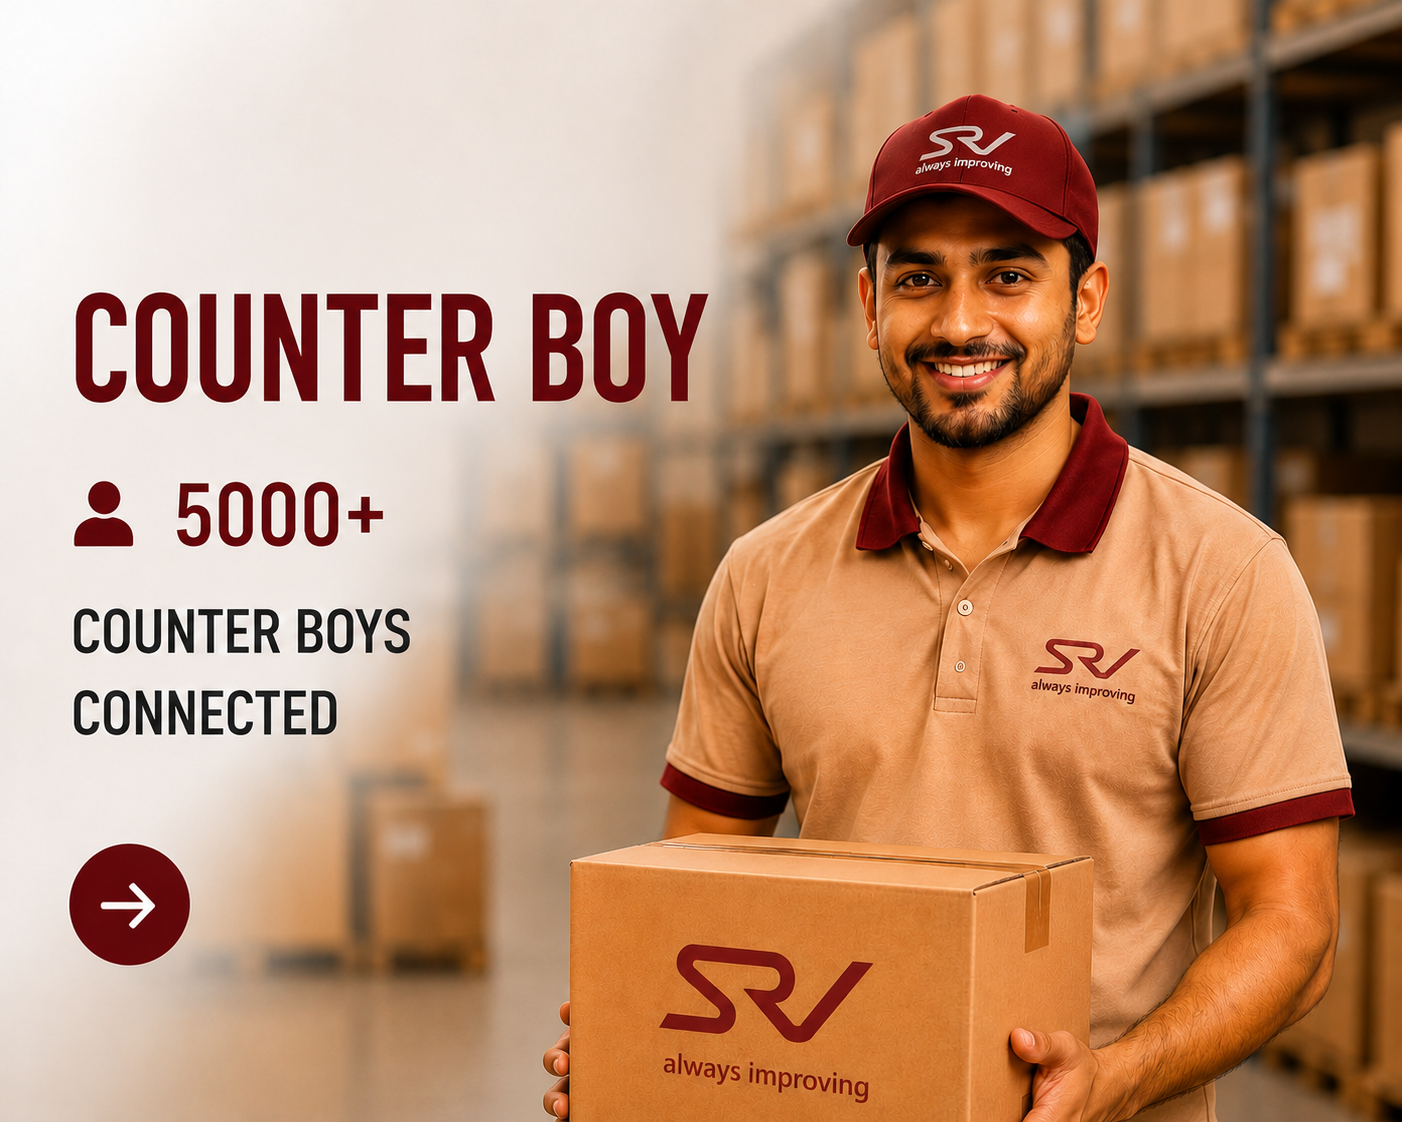
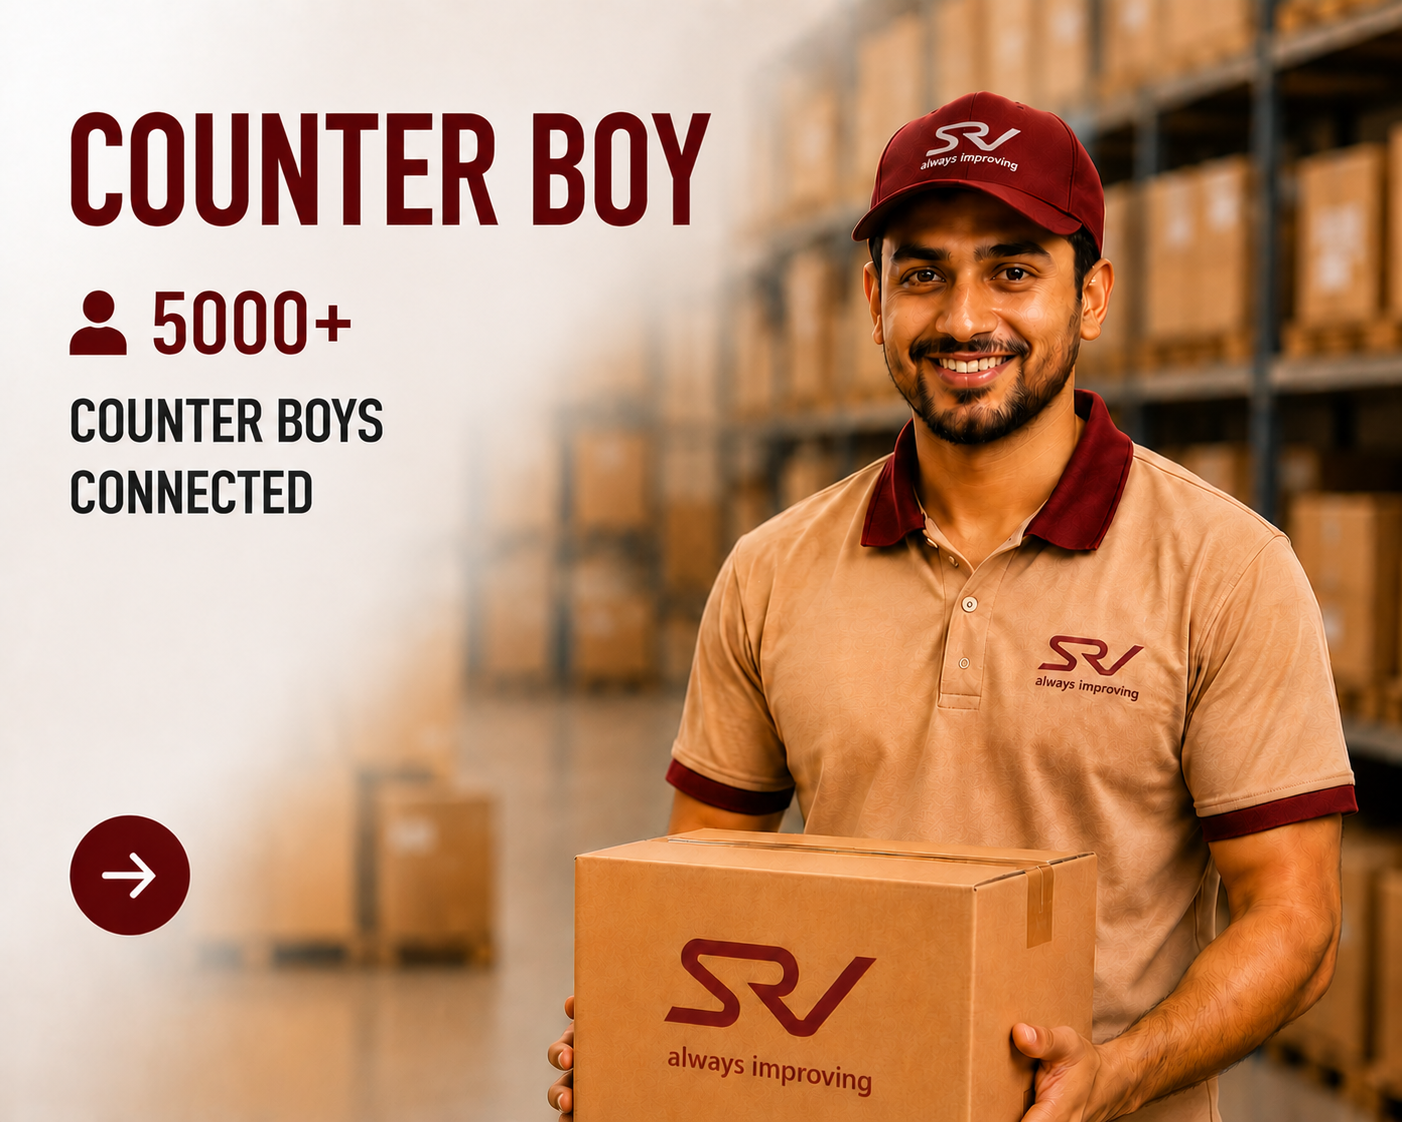
product redirect fix

diff --git a/src/features/counterboy/screens/HomeScreen.tsx b/src/features/counterboy/screens/HomeScreen.tsx
@@ -49,39 +49,65 @@ function resolveRemoteImageUrl(value?: string | null): string | null {
 }
 
 const CB_HOME_CAT_IMAGES: Record<string, string> = {
-  fanbox: 'https://srvelectricals.com/cdn/shop/files/FC_4_17-30.png?v=1757426626&width=320',
+  fanbox:       'https://srvelectricals.com/cdn/shop/files/FC_4_17-30.png?v=1757426626&width=320',
   concealedbox: 'https://srvelectricals.com/cdn/shop/files/CRD_PL_3.png?v=1757426566&width=320',
-  modular: 'https://srvelectricals.com/cdn/shop/files/3x3_679e5d30-ecf2-446e-9452-354bbf4c4a26.png?v=1757426377&width=320',
-  mcb: 'https://srvelectricals.com/cdn/shop/files/MCB_Box_4_Way_GI.png?v=1757426418&width=320',
+  busbar:       'https://srvelectricals.com/cdn/shop/files/Bus_Bar_100A_Super.png?v=1757426672&width=320',
+  mcb:          'https://srvelectricals.com/cdn/shop/files/MCB_Box_4_Way_GI.png?v=1757426418&width=320',
 };
 
 const CB_HOME_LABELS: Record<string, string> = {
-  fanbox: 'Fan Box',
-  concealedbox: 'Concealed Box',
-  modular: 'Modular Box',
-  modularbox: 'Modular Box',
-  mcb: 'MCB Box',
+  'fan': 'Fan Box',
+  'fanbox': 'Fan Box',
+  'fan-box': 'Fan Box',
+  'concealed': 'Concealed Box',
+  'concealedbox': 'Concealed Box',
+  'concealed-box': 'Concealed Box',
+  'bus': 'Bus Bar Super',
+  'bar': 'Bus Bar Super',
+  'busbar': 'Bus Bar Super',
+  'super': 'Bus Bar Super',
+  'mcb': 'MCB Box',
+  'eco': 'MCB Box',
+  'spn': 'MCB Box',
+  'dd': 'MCB Box',
 };
 
-const CB_HOME_ALIASES: Record<string, string> = {
-  modularbox: 'modular',
-  boxes: 'mcb',
-};
-
-const CB_HOME_CATEGORY_ORDER = ['fanbox', 'concealedbox', 'modular', 'mcb'] as const;
+const CB_HOME_CATEGORY_ORDER = ['Fan Box', 'Concealed Box', 'BUS BAR SUPER', 'ECO SPN DD MCB BOX'] as const;
 
 function sanitizeCbCategoryKey(value: string) {
-  return value.toLowerCase().trim().replace(/[^a-z0-9]+/g, '');
+  return value.toLowerCase().trim();
 }
 
 function normalizeCbHomeCategory(id: string) {
   const sanitized = sanitizeCbCategoryKey(id);
-  return CB_HOME_ALIASES[sanitized] ?? sanitized;
+  // Check if it matches any of our target categories
+  for (const targetCat of CB_HOME_CATEGORY_ORDER) {
+    if (sanitized.includes(targetCat.toLowerCase()) || targetCat.toLowerCase().includes(sanitized)) {
+      return targetCat;
+    }
+  }
+  // Check if any search term matches
+  const searchTerms = ['fan', 'concealed', 'bus', 'bar', 'busbar', 'super', 'mcb', 'eco', 'spn', 'dd'];
+  for (const term of searchTerms) {
+    if (sanitized.includes(term)) {
+      return CB_HOME_LABELS[term] || sanitized;
+    }
+  }
+  return sanitized;
 }
 
 function getCbHomeCatImage(id: string, apiImageUrl?: string | null) {
+  const remoteUrl = resolveRemoteImageUrl(apiImageUrl);
+  if (remoteUrl) return remoteUrl;
+
+  const idLower = id.toLowerCase();
+  if (idLower.includes('bus') || idLower.includes('bar')) return CB_HOME_CAT_IMAGES.busbar;
+  if (idLower.includes('mcb') || idLower.includes('eco') || idLower.includes('spn')) return CB_HOME_CAT_IMAGES.mcb;
+  if (idLower.includes('concealed')) return CB_HOME_CAT_IMAGES.concealedbox;
+  if (idLower.includes('fan')) return CB_HOME_CAT_IMAGES.fanbox;
+
   const normalizedId = normalizeCbHomeCategory(id);
-  return resolveRemoteImageUrl(apiImageUrl) ?? CB_HOME_CAT_IMAGES[normalizedId] ?? CB_HOME_CAT_IMAGES.fanbox;
+  return CB_HOME_CAT_IMAGES[normalizedId] ?? CB_HOME_CAT_IMAGES.fanbox;
 }
 
 const CB_PRIMARY = cb.primary;
@@ -520,9 +546,9 @@ const styles = StyleSheet.create({
     height: 132,
     alignItems: 'center',
     justifyContent: 'center',
-    backgroundColor: cb.bg,
+    backgroundColor: '#FFFFFF',
   },
-  cbCatImgZoneDark: { backgroundColor: '#2D1C14' },
+  cbCatImgZoneDark: { backgroundColor: cb.darkSurface },
   cbCatImage: { width: '88%', height: '88%' },
   cbCatAccent: { height: 3, width: '100%' },
   cbCatInfo: { padding: 10, backgroundColor: '#FFFFFF' },

diff --git a/src/features/electrician/screens/HomeScreen.tsx b/src/features/electrician/screens/HomeScreen.tsx
@@ -250,7 +250,33 @@ function normalizeHomeCategory(id: string): string {
 
 function getCatImage(id: string, apiImageUrl?: string | null): string {
   const normalizedId = normalizeHomeCategory(id);
-  return CAT_IMAGES[normalizedId] || CAT_IMAGES[id] || apiImageUrl || CAT_IMAGES.fanbox;
+  
+  // First try to get from CAT_IMAGES with normalized ID
+  if (CAT_IMAGES[normalizedId]) return CAT_IMAGES[normalizedId];
+  
+  // Try with original ID
+  if (CAT_IMAGES[id]) return CAT_IMAGES[id];
+  
+  // Try API image URL
+  if (apiImageUrl) return apiImageUrl;
+  
+  // Try to match by keywords for specific categories
+  const idLower = id.toLowerCase();
+  if (idLower.includes('mcb') || idLower.includes('eco') || idLower.includes('spn')) {
+    return CAT_IMAGES.mcb;
+  }
+  if (idLower.includes('bus') || idLower.includes('bar')) {
+    return CAT_IMAGES.busbar;
+  }
+  if (idLower.includes('fan') && !idLower.includes('exhaust')) {
+    return CAT_IMAGES.fanbox;
+  }
+  if (idLower.includes('concealed')) {
+    return CAT_IMAGES.concealedbox;
+  }
+  
+  // Default fallback
+  return CAT_IMAGES.fanbox;
 }
 
 function resolveRemoteImageUrl(value?: string | null): string | null {
@@ -861,21 +887,26 @@ export function HomeScreen({
     return catalogProducts;
   }, [catalogProducts, selectedFilter]);
 
-  // Show only 4 different priority categories on home screen
+  // Show only 4 specific hardcoded categories on home screen
   const displayedCategories = useMemo(() => {
-    const preferredOrder = ['fanbox', 'concealedbox', 'modular', 'mcb', 'busbar', 'exhaust', 'led', 'changeover'];
-    const ordered = [
-      ...preferredOrder
-        .map((id) => categories.find((category) => category.id === id))
-        .filter(Boolean),
-      ...categories,
-    ] as typeof categories;
-    const seen = new Set<string>();
-    return ordered.filter((category) => {
-      if (seen.has(category.id)) return false;
-      seen.add(category.id);
-      return true;
-    }).slice(0, 4);
+    const hardcodedCategories = [
+      { id: 'Fan Box', label: 'Fan Box', searchTerms: ['fan', 'fanbox', 'fan-box'] },
+      { id: 'Concealed Box', label: 'Concealed Box', searchTerms: ['concealed', 'concealedbox', 'concealed-box'] },
+      { id: 'BUS BAR SUPER', label: 'Bus Bar Super', searchTerms: ['bus', 'bar', 'busbar', 'super'] },
+      { id: 'ECO SPN DD MCB BOX', label: 'MCB Box', searchTerms: ['mcb', 'eco', 'spn', 'dd'] },
+    ];
+    
+    // Try to match with actual categories from database
+    return hardcodedCategories.map(hardcoded => {
+      const found = categories.find((category) => {
+        const cId = category.id.toLowerCase();
+        const cLabel = (category.label || '').toLowerCase();
+        return hardcoded.searchTerms.some(term => 
+          cId.includes(term.toLowerCase()) || cLabel.includes(term.toLowerCase())
+        );
+      });
+      return found ? { ...found, label: hardcoded.label } : { id: hardcoded.id, label: hardcoded.label, count: 0 };
+    });
   }, [categories]);
 
   // 2-column card width (same as ProductScreen)

diff --git a/src/features/dealer/screens/HomeScreen.tsx b/src/features/dealer/screens/HomeScreen.tsx
@@ -90,8 +90,17 @@ function normalizeHomeCategory(id: string) {
 }
 
 function getCatImage(id: string, apiImageUrl?: string | null) {
+  const remoteUrl = resolveRemoteImageUrl(apiImageUrl);
+  if (remoteUrl) return remoteUrl;
+
+  const idLower = id.toLowerCase();
+  if (idLower.includes('bus') || idLower.includes('bar')) return CAT_IMAGES.busbar;
+  if (idLower.includes('mcb') || idLower.includes('eco') || idLower.includes('spn')) return CAT_IMAGES.mcb;
+  if (idLower.includes('concealed')) return CAT_IMAGES.concealedbox;
+  if (idLower.includes('fan') && !idLower.includes('exhaust')) return CAT_IMAGES.fanbox;
+
   const normalizedId = normalizeHomeCategory(id);
-  return resolveRemoteImageUrl(apiImageUrl) ?? CAT_IMAGES[normalizedId] ?? CAT_IMAGES[id] ?? CAT_IMAGES.fanbox;
+  return CAT_IMAGES[normalizedId] ?? CAT_IMAGES[id] ?? CAT_IMAGES.fanbox;
 }
 
 function resolveRemoteImageUrl(uri?: string | null) {
@@ -692,17 +701,24 @@ export function HomeScreen({
     });
   }, [ctxCategories, ctxProducts]);
   const displayedCategories = useMemo(() => {
-    const preferredOrder = ['fanbox', 'concealedbox', 'modular', 'mcb', 'busbar', 'exhaust', 'led', 'changeover'];
-    const ordered = [
-      ...preferredOrder.map((id) => categories.find((category) => category.id === id)).filter(Boolean),
-      ...categories,
-    ] as typeof categories;
-    const seen = new Set<string>();
-    return ordered.filter((category) => {
-      if (seen.has(category.id)) return false;
-      seen.add(category.id);
-      return true;
-    }).slice(0, 4);
+    const hardcodedCategories = [
+      { id: 'Fan Box', label: 'Fan Box', searchTerms: ['fan', 'fanbox', 'fan-box'] },
+      { id: 'Concealed Box', label: 'Concealed Box', searchTerms: ['concealed', 'concealedbox', 'concealed-box'] },
+      { id: 'BUS BAR SUPER', label: 'Bus Bar Super', searchTerms: ['bus', 'bar', 'busbar', 'super'] },
+      { id: 'ECO SPN DD MCB BOX', label: 'MCB Box', searchTerms: ['mcb', 'eco', 'spn', 'dd'] },
+    ];
+    
+    // Try to match with actual categories from database
+    return hardcodedCategories.map(hardcoded => {
+      const found = categories.find((category) => {
+        const cId = category.id.toLowerCase();
+        const cLabel = (category.label || '').toLowerCase();
+        return hardcoded.searchTerms.some(term => 
+          cId.includes(term.toLowerCase()) || cLabel.includes(term.toLowerCase())
+        );
+      });
+      return found ? { ...found, label: hardcoded.label } : { id: hardcoded.id, label: hardcoded.label, count: 0 };
+    });
   }, [categories]);
   const dealerTestimonials = useMemo<TestimonialItem[]>(() => {
     if (ctxTestimonials.length === 0) {

diff --git a/src/features/user/screens/HomeScreen.tsx b/src/features/user/screens/HomeScreen.tsx
@@ -213,6 +213,11 @@ const CAT_IMAGES: Record<string, string> = {
 };
 
 function getCatImage(id: string, apiImageUrl?: string | null): string {
+  const idLower = id.toLowerCase();
+  if (idLower.includes('bus') || idLower.includes('bar')) return CAT_IMAGES.busbar;
+  if (idLower.includes('mcb') || idLower.includes('eco') || idLower.includes('spn')) return CAT_IMAGES.mcb;
+  if (idLower.includes('concealed')) return CAT_IMAGES.concealedbox;
+  if (idLower.includes('fan') && !idLower.includes('exhaust')) return CAT_IMAGES.fanbox;
   return apiImageUrl || CAT_IMAGES[id] || CAT_IMAGES.fanbox;
 }
 
@@ -906,8 +911,27 @@ export function HomeScreen({
     return catalogProducts;
   }, [catalogProducts, selectedFilter]);
 
-  // Show only first 4 categories on home screen to match dealer layout
-  const displayedCategories = useMemo(() => categories.slice(0, 4), [categories]);
+  // Show only 4 specific hardcoded categories on home screen
+  const displayedCategories = useMemo(() => {
+    const hardcodedCategories = [
+      { id: 'Fan Box', label: 'Fan Box', searchTerms: ['fan', 'fanbox', 'fan-box'] },
+      { id: 'Concealed Box', label: 'Concealed Box', searchTerms: ['concealed', 'concealedbox', 'concealed-box'] },
+      { id: 'BUS BAR SUPER', label: 'Bus Bar Super', searchTerms: ['bus', 'bar', 'busbar', 'super'] },
+      { id: 'ECO SPN DD MCB BOX', label: 'MCB Box', searchTerms: ['mcb', 'eco', 'spn', 'dd'] },
+    ];
+    
+    // Try to match with actual categories from database
+    return hardcodedCategories.map(hardcoded => {
+      const found = categories.find(c => {
+        const cId = c.id.toLowerCase();
+        const cLabel = (c.label || '').toLowerCase();
+        return hardcoded.searchTerms.some(term => 
+          cId.includes(term.toLowerCase()) || cLabel.includes(term.toLowerCase())
+        );
+      });
+      return found ? { ...found, label: hardcoded.label } : { id: hardcoded.id, label: hardcoded.label, count: 0 };
+    });
+  }, [categories]);
 
   // 2-column card width (same as ProductScreen)
   const catCardW = Math.floor((width - 28 - 12) / 2);

diff --git a/src/app/index.tsx b/src/app/index.tsx
@@ -179,6 +179,11 @@ function AppContent() {
         setSelectedProductCategory((current) => current || 'all');
       }
 
+      // Reset category when going back to home
+      if (screen === 'home') {
+        setSelectedProductCategory('all');
+      }
+
       setCurrentScreen(screen);
     },
     [currentScreen]
@@ -313,7 +318,7 @@ function AppContent() {
             />
           );
         case 'product':
-          return <DealerProductScreen onNavigate={handleNavigate} />;
+          return <DealerProductScreen onNavigate={handleNavigate} initialCategory={selectedProductCategory} />;
         case 'electricians':
           return <DealerElectriciansScreen onNavigate={handleNavigate} />;
         case 'call_electrician':
@@ -434,7 +439,7 @@ function AppContent() {
             />
           );
         case 'product':
-          return <UserCategoriesScreen onNavigate={handleNavigate} onAddToCart={handleAddToCart} />;
+          return <UserCategoriesScreen onNavigate={handleNavigate} onAddToCart={handleAddToCart} initialCategory={selectedProductCategory} />;
         case 'play':
           return <UserPlayScreen onNavigate={handleNavigate} />;
         case 'notification':
@@ -522,7 +527,7 @@ function AppContent() {
             />
           );
         case 'product':
-          return <CounterBoyProductScreen onNavigate={handleNavigate} />;
+          return <CounterBoyProductScreen onNavigate={handleNavigate} initialCategory={selectedProductCategory} />;
         case 'scan':
           return (
             <CounterBoyHomeScreen

diff --git a/src/features/counterboy/screens/ProductScreen.tsx b/src/features/counterboy/screens/ProductScreen.tsx
@@ -3,8 +3,10 @@ import type { Screen } from '@/shared/types/navigation';
 
 export function ProductScreen({
   onNavigate,
+  initialCategory,
 }: {
   onNavigate: (screen: Screen) => void;
+  initialCategory?: string;
 }) {
-  return <ElectricianProductScreen onNavigate={onNavigate} role="counterboy" showBottomBanner={false} />;
+  return <ElectricianProductScreen onNavigate={onNavigate} initialCategory={initialCategory} role="counterboy" showBottomBanner={false} />;
 }